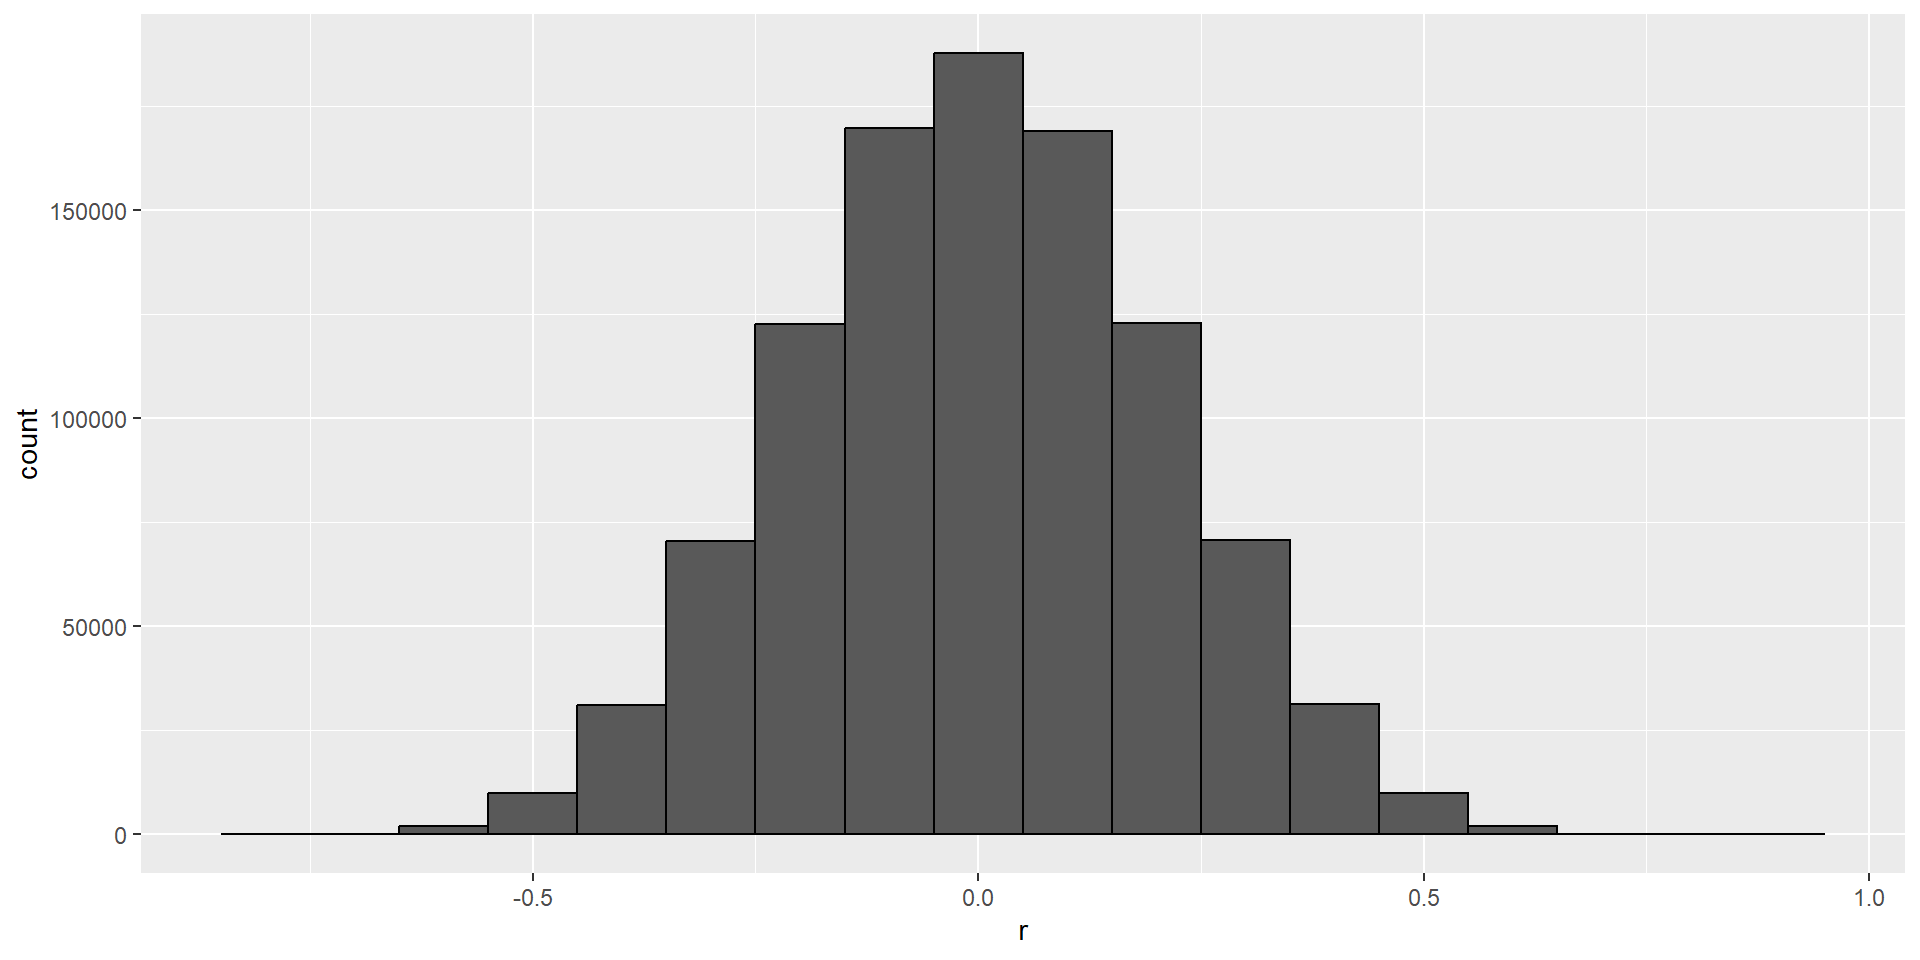
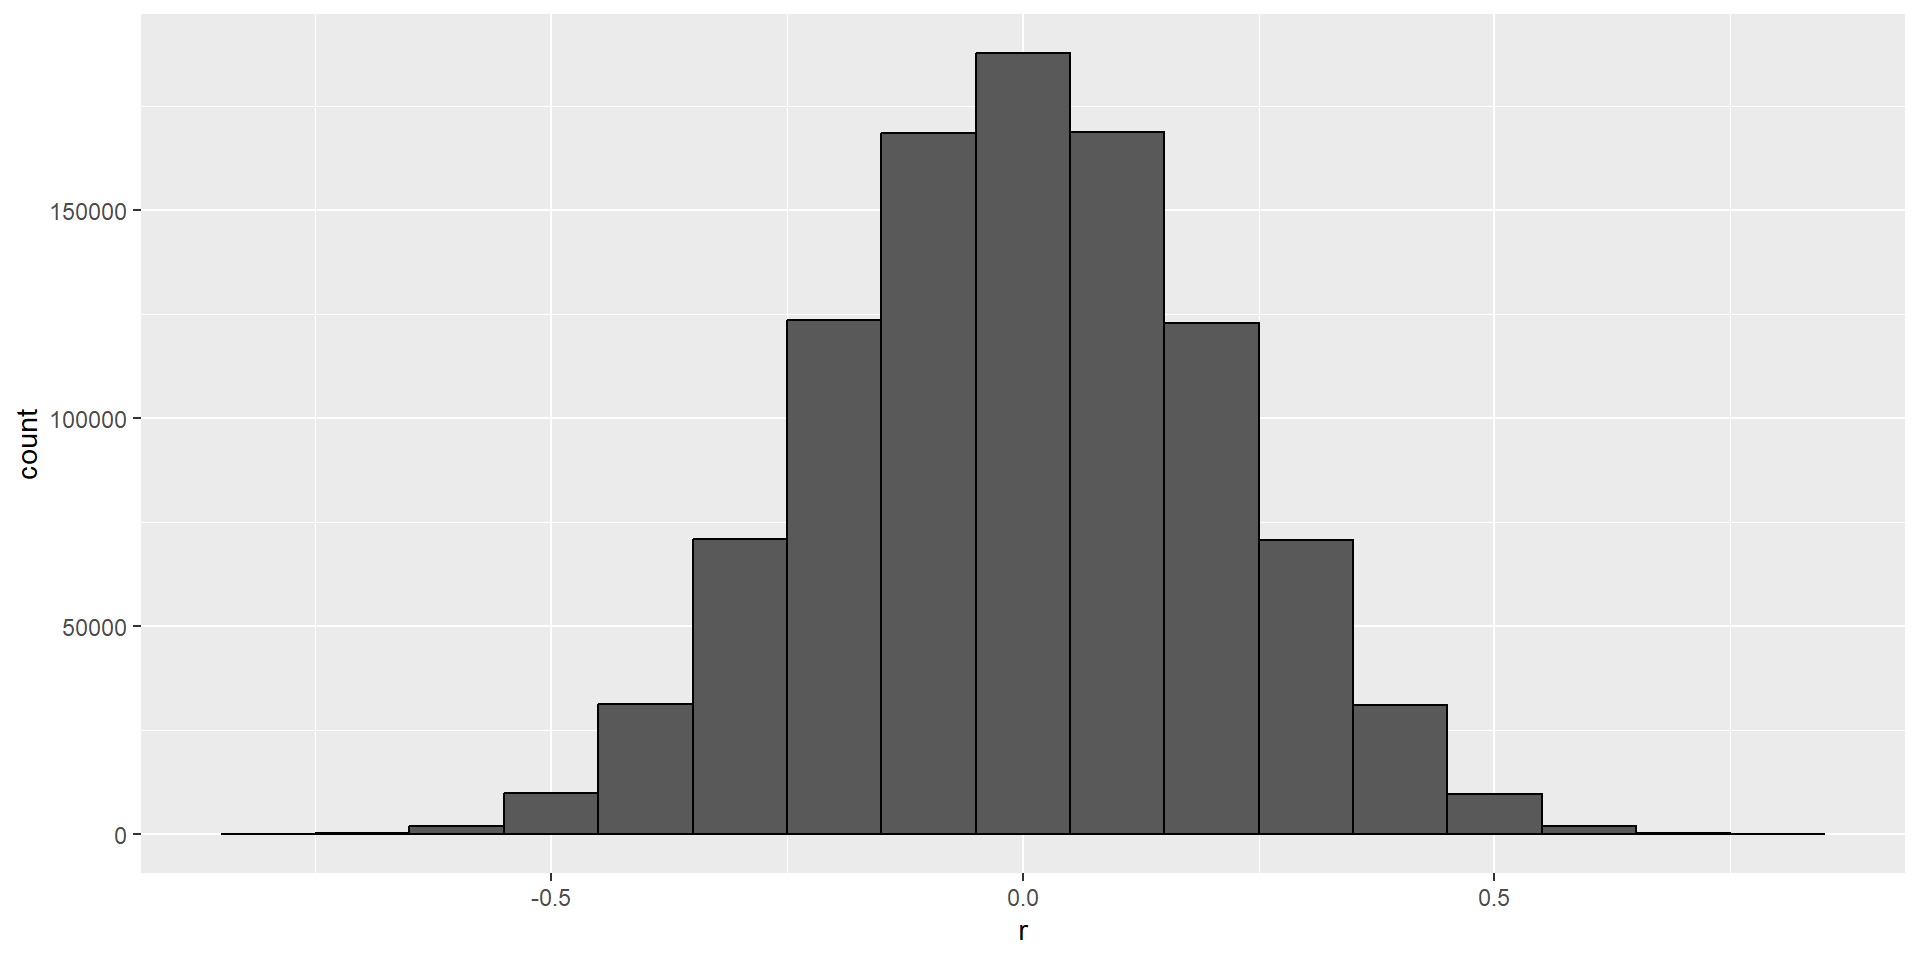
Update course website.

diff --git a/docs/slides/wrangling/12-dates-and-times.html b/docs/slides/wrangling/12-dates-and-times.html
@@ -461,11 +461,11 @@
 <div class="cell">
 <div class="sourceCode cell-code" id="cb27"><pre class="sourceCode numberSource r number-lines code-with-copy"><code class="sourceCode r"><span id="cb27-1"><a></a><span class="fu">now</span>() </span></code><button title="Copy to Clipboard" class="code-copy-button"><i class="bi"></i></button></pre></div>
 <div class="cell-output cell-output-stdout">
-<pre><code>[1] "2025-08-21 17:27:44 EDT"</code></pre>
+<pre><code>[1] "2025-08-21 17:39:34 EDT"</code></pre>
 </div>
 <div class="sourceCode cell-code" id="cb29"><pre class="sourceCode numberSource r number-lines code-with-copy"><code class="sourceCode r"><span id="cb29-1"><a></a><span class="fu">now</span>(<span class="st">"GMT"</span>) </span></code><button title="Copy to Clipboard" class="code-copy-button"><i class="bi"></i></button></pre></div>
 <div class="cell-output cell-output-stdout">
-<pre><code>[1] "2025-08-21 21:27:44 GMT"</code></pre>
+<pre><code>[1] "2025-08-21 21:39:34 GMT"</code></pre>
 </div>
 </div>
 </section>
@@ -792,11 +792,11 @@ attr(,"Version")
 </div>
 <div class="sourceCode cell-code" id="cb35"><pre class="sourceCode numberSource r number-lines code-with-copy"><code class="sourceCode r"><span id="cb35-1"><a></a><span class="fu">now</span>() <span class="sc">|&gt;</span> <span class="fu">minute</span>() </span></code><button title="Copy to Clipboard" class="code-copy-button"><i class="bi"></i></button></pre></div>
 <div class="cell-output cell-output-stdout">
-<pre><code>[1] 27</code></pre>
+<pre><code>[1] 39</code></pre>
 </div>
 <div class="sourceCode cell-code" id="cb37"><pre class="sourceCode numberSource r number-lines code-with-copy"><code class="sourceCode r"><span id="cb37-1"><a></a><span class="fu">now</span>() <span class="sc">|&gt;</span> <span class="fu">second</span>() </span></code><button title="Copy to Clipboard" class="code-copy-button"><i class="bi"></i></button></pre></div>
 <div class="cell-output cell-output-stdout">
-<pre><code>[1] 44.48962</code></pre>
+<pre><code>[1] 35.13069</code></pre>
 </div>
 </div>
 </section>

diff --git a/docs/slides/inference/24-confidence-intervals.html b/docs/slides/inference/24-confidence-intervals.html
@@ -266,7 +266,7 @@
 <span id="cb2-3"><a></a>se_hat <span class="ot">&lt;-</span> <span class="fu">sqrt</span>(x_hat<span class="sc">*</span>(<span class="dv">1</span> <span class="sc">-</span> x_hat)<span class="sc">/</span>N) </span>
 <span id="cb2-4"><a></a><span class="fu">c</span>(x_hat <span class="sc">-</span> <span class="fl">1.96</span><span class="sc">*</span>se_hat, x_hat <span class="sc">+</span> <span class="fl">1.96</span><span class="sc">*</span>se_hat) </span></code><button title="Copy to Clipboard" class="code-copy-button"><i class="bi"></i></button></pre></div>
 <div class="cell-output cell-output-stdout">
-<pre><code>[1] 0.4092336 0.4707664</code></pre>
+<pre><code>[1] 0.4201589 0.4818411</code></pre>
 </div>
 </div>
 <ul>
@@ -278,7 +278,7 @@
 <span id="cb4-3"><a></a>se_hat <span class="ot">&lt;-</span> <span class="fu">sqrt</span>(x_hat<span class="sc">*</span>(<span class="dv">1</span> <span class="sc">-</span> x_hat)<span class="sc">/</span>N) </span>
 <span id="cb4-4"><a></a><span class="fu">c</span>(x_hat <span class="sc">-</span> <span class="fl">1.96</span><span class="sc">*</span>se_hat, x_hat <span class="sc">+</span> <span class="fl">1.96</span><span class="sc">*</span>se_hat) </span></code><button title="Copy to Clipboard" class="code-copy-button"><i class="bi"></i></button></pre></div>
 <div class="cell-output cell-output-stdout">
-<pre><code>[1] 0.4042727 0.4657273</code></pre>
+<pre><code>[1] 0.4221469 0.4838531</code></pre>
 </div>
 </div>
 <ul>
@@ -377,7 +377,7 @@
 <span id="cb14-8"><a></a>}) </span>
 <span id="cb14-9"><a></a><span class="fu">mean</span>(inside) </span></code><button title="Copy to Clipboard" class="code-copy-button"><i class="bi"></i></button></pre></div>
 <div class="cell-output cell-output-stdout">
-<pre><code>[1] 0.9467</code></pre>
+<pre><code>[1] 0.9443</code></pre>
 </div>
 </div>
 </section>

diff --git a/docs/slides/other-topics/45-association-not-causation.html b/docs/slides/other-topics/45-association-not-causation.html
@@ -252,21 +252,21 @@
 <pre><code># A tibble: 1,000,000 × 2
     group     r
     &lt;int&gt; &lt;dbl&gt;
- 1 420085 0.859
- 2 537777 0.760
- 3 437000 0.758
- 4 492106 0.751
- 5 408587 0.745
- 6 800215 0.742
- 7 198713 0.742
- 8 630584 0.741
- 9 297713 0.734
-10 670784 0.732
+ 1 950216 0.812
+ 2 735161 0.785
+ 3 437340 0.785
+ 4 114829 0.778
+ 5 431705 0.777
+ 6 324250 0.762
+ 7 571283 0.758
+ 8 524095 0.753
+ 9 868183 0.744
+10 332673 0.744
 # ℹ 999,990 more rows</code></pre>
 </div>
 </div>
 <ul>
-<li>We see a maximum correlation of 0.859.</li>
+<li>We see a maximum correlation of 0.812.</li>
 </ul>
 </section>
 <section id="spurious-correlation-4" class="slide level2">
@@ -305,9 +305,9 @@
 <span id="cb5-5"><a></a>  <span class="fu">filter</span>(term <span class="sc">==</span> <span class="st">"x"</span>) </span></code><button title="Copy to Clipboard" class="code-copy-button"><i class="bi"></i></button></pre></div>
 <div class="cell-output cell-output-stdout">
 <pre><code># A tibble: 1 × 5
-  term  estimate std.error statistic      p.value
-  &lt;chr&gt;    &lt;dbl&gt;     &lt;dbl&gt;     &lt;dbl&gt;        &lt;dbl&gt;
-1 x         1.24     0.154      8.04 0.0000000395</code></pre>
+  term  estimate std.error statistic     p.value
+  &lt;chr&gt;    &lt;dbl&gt;     &lt;dbl&gt;     &lt;dbl&gt;       &lt;dbl&gt;
+1 x        0.810     0.122      6.67 0.000000838</code></pre>
 </div>
 </div>
 </section>

diff --git a/docs/slides/ml/40-knn.html b/docs/slides/ml/40-knn.html
@@ -304,7 +304,7 @@ p(\mathbf{x}) = \mbox{Pr}(Y = 1 \mid X_1 = x_1 , X_2 = x_2).
 <span id="cb7-2"><a></a><span class="fu">confusionMatrix</span>(y_hat_knn, mnist_27<span class="sc">$</span>train<span class="sc">$</span>y)<span class="sc">$</span>overall[<span class="st">"Accuracy"</span>] </span></code><button title="Copy to Clipboard" class="code-copy-button"><i class="bi"></i></button></pre></div>
 <div class="cell-output cell-output-stdout">
 <pre><code>Accuracy 
-   0.859 </code></pre>
+    0.86 </code></pre>
 </div>
 </div>
 <p>to</p>
@@ -325,7 +325,7 @@ p(\mathbf{x}) = \mbox{Pr}(Y = 1 \mid X_1 = x_1 , X_2 = x_2).
 <span id="cb11-2"><a></a>y_hat_knn_1 <span class="ot">&lt;-</span> <span class="fu">predict</span>(knn_fit_1, mnist_27<span class="sc">$</span>train, <span class="at">type =</span> <span class="st">"class"</span>) </span>
 <span id="cb11-3"><a></a><span class="fu">confusionMatrix</span>(y_hat_knn_1, mnist_27<span class="sc">$</span>train<span class="sc">$</span>y)<span class="sc">$</span>overall[[<span class="st">"Accuracy"</span>]] </span></code><button title="Copy to Clipboard" class="code-copy-button"><i class="bi"></i></button></pre></div>
 <div class="cell-output cell-output-stdout">
-<pre><code>[1] 0.999</code></pre>
+<pre><code>[1] 0.995</code></pre>
 </div>
 </div>
 <p>to this:</p>

diff --git a/docs/slides/inference/23-parameters-estimates.html b/docs/slides/inference/23-parameters-estimates.html
@@ -530,11 +530,11 @@
 <div class="cell">
 <div class="sourceCode cell-code" id="cb15"><pre class="sourceCode numberSource r number-lines code-with-copy"><code class="sourceCode r"><span id="cb15-1"><a></a><span class="fu">mean</span>(x_hat) </span></code><button title="Copy to Clipboard" class="code-copy-button"><i class="bi"></i></button></pre></div>
 <div class="cell-output cell-output-stdout">
-<pre><code>[1] 0.4498631</code></pre>
+<pre><code>[1] 0.4501057</code></pre>
 </div>
 <div class="sourceCode cell-code" id="cb17"><pre class="sourceCode numberSource r number-lines code-with-copy"><code class="sourceCode r"><span id="cb17-1"><a></a><span class="fu">sd</span>(x_hat) </span></code><button title="Copy to Clipboard" class="code-copy-button"><i class="bi"></i></button></pre></div>
 <div class="cell-output cell-output-stdout">
-<pre><code>[1] 0.0157354</code></pre>
+<pre><code>[1] 0.01562259</code></pre>
 </div>
 </div>
 </section>

diff --git a/docs/index.html b/docs/index.html
@@ -182,7 +182,7 @@ ul.task-list li input[type="checkbox"] {
 <h2 class="anchored" data-anchor-id="course-information">Course Information</h2>
 <ul>
 <li>Instructors: <a href="https://ds.dfci.harvard.edu/our-people/robert-gentleman-phd/">Robert Gentleman</a>, <a href="https://dbmi.hms.harvard.edu/people/anthony-christidis">Anthony Christidis</a></li>
-<li>Teaching fellows: Ava Harrington, Angela Wang, Emma Crenshaw, Jing Li</li>
+<li>Teaching fellows: Angela Wang, Ava Harrington, Emma Crenshaw, Jing Li</li>
 <li>Location: Kresge G1, Harvard School of Public Health</li>
 <li>Date and time: Mon &amp; Wed 9.45 - 11:15am</li>
 <li>Textbooks: <a href="https://rafalab.dfci.harvard.edu/dsbook-part-1/">DS Book (Part 1)</a>, <a href="https://rafalab.dfci.harvard.edu/dsbook-part-2/">DS Book (Part 2)</a></li>

diff --git a/docs/slides/R/05-r-basics.html b/docs/slides/R/05-r-basics.html
@@ -664,7 +664,7 @@ Levels: Alpha Zoomer Millennial X Boomer Silent Greatest</code></pre>
 <div class="sourceCode cell-code" id="cb60"><pre class="sourceCode numberSource r number-lines code-with-copy"><code class="sourceCode r"><span id="cb60-1"><a></a><span class="fu">system.time</span>({<span class="fu">levels</span>(y) <span class="ot">&lt;-</span> <span class="fu">tolower</span>(<span class="fu">levels</span>(y))})</span></code><button title="Copy to Clipboard" class="code-copy-button"><i class="bi"></i></button></pre></div>
 <div class="cell-output cell-output-stdout">
 <pre><code>   user  system elapsed 
-   0.03    0.00    0.03 </code></pre>
+   0.01    0.00    0.01 </code></pre>
 </div>
 </div>
 </section>

diff --git a/docs/slides/R/06-vectorization.html b/docs/slides/R/06-vectorization.html
@@ -270,8 +270,8 @@
 <span id="cb8-2"><a></a>error <span class="ot">&lt;-</span> <span class="fu">rnorm</span>(<span class="fu">length</span>(heights), <span class="dv">0</span>, <span class="fl">0.1</span>)</span>
 <span id="cb8-3"><a></a>heights <span class="sc">+</span> error</span></code><button title="Copy to Clipboard" class="code-copy-button"><i class="bi"></i></button></pre></div>
 <div class="cell-output cell-output-stdout">
-<pre><code> [1] 68.97927 61.90907 66.11604 70.04496 69.94606 72.94005 67.11487 72.96018
- [9] 67.06176 70.15935</code></pre>
+<pre><code> [1] 69.07325 61.79676 66.01109 70.04996 69.95224 72.90735 66.98754 73.05134
+ [9] 66.84819 69.64675</code></pre>
 </div>
 </div>
 </section>
